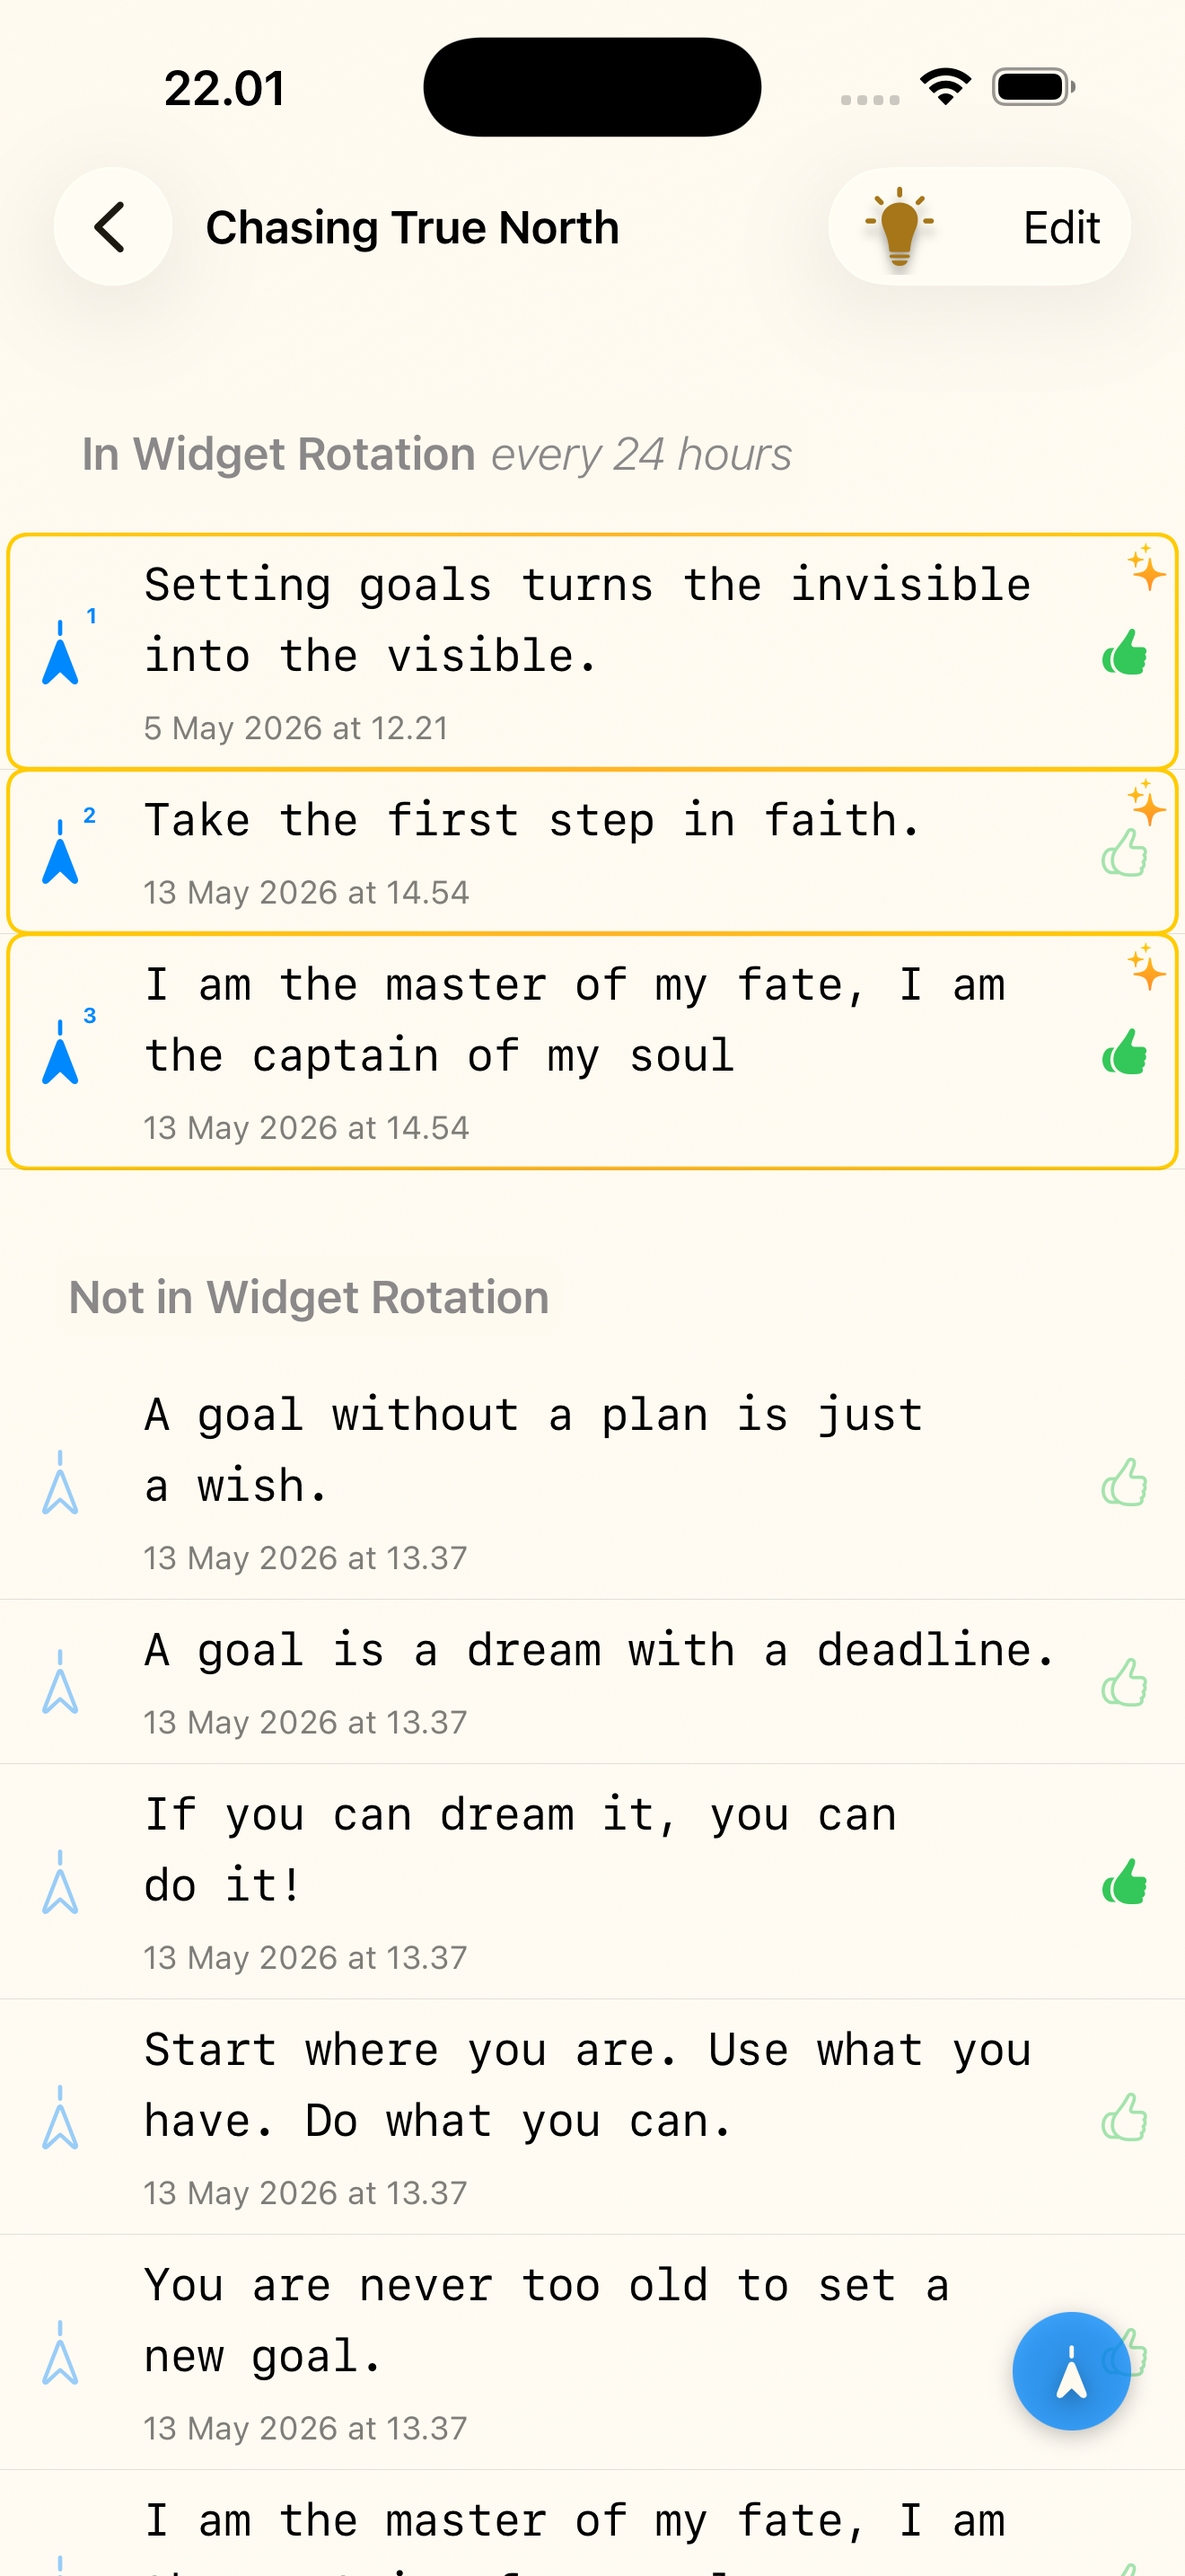
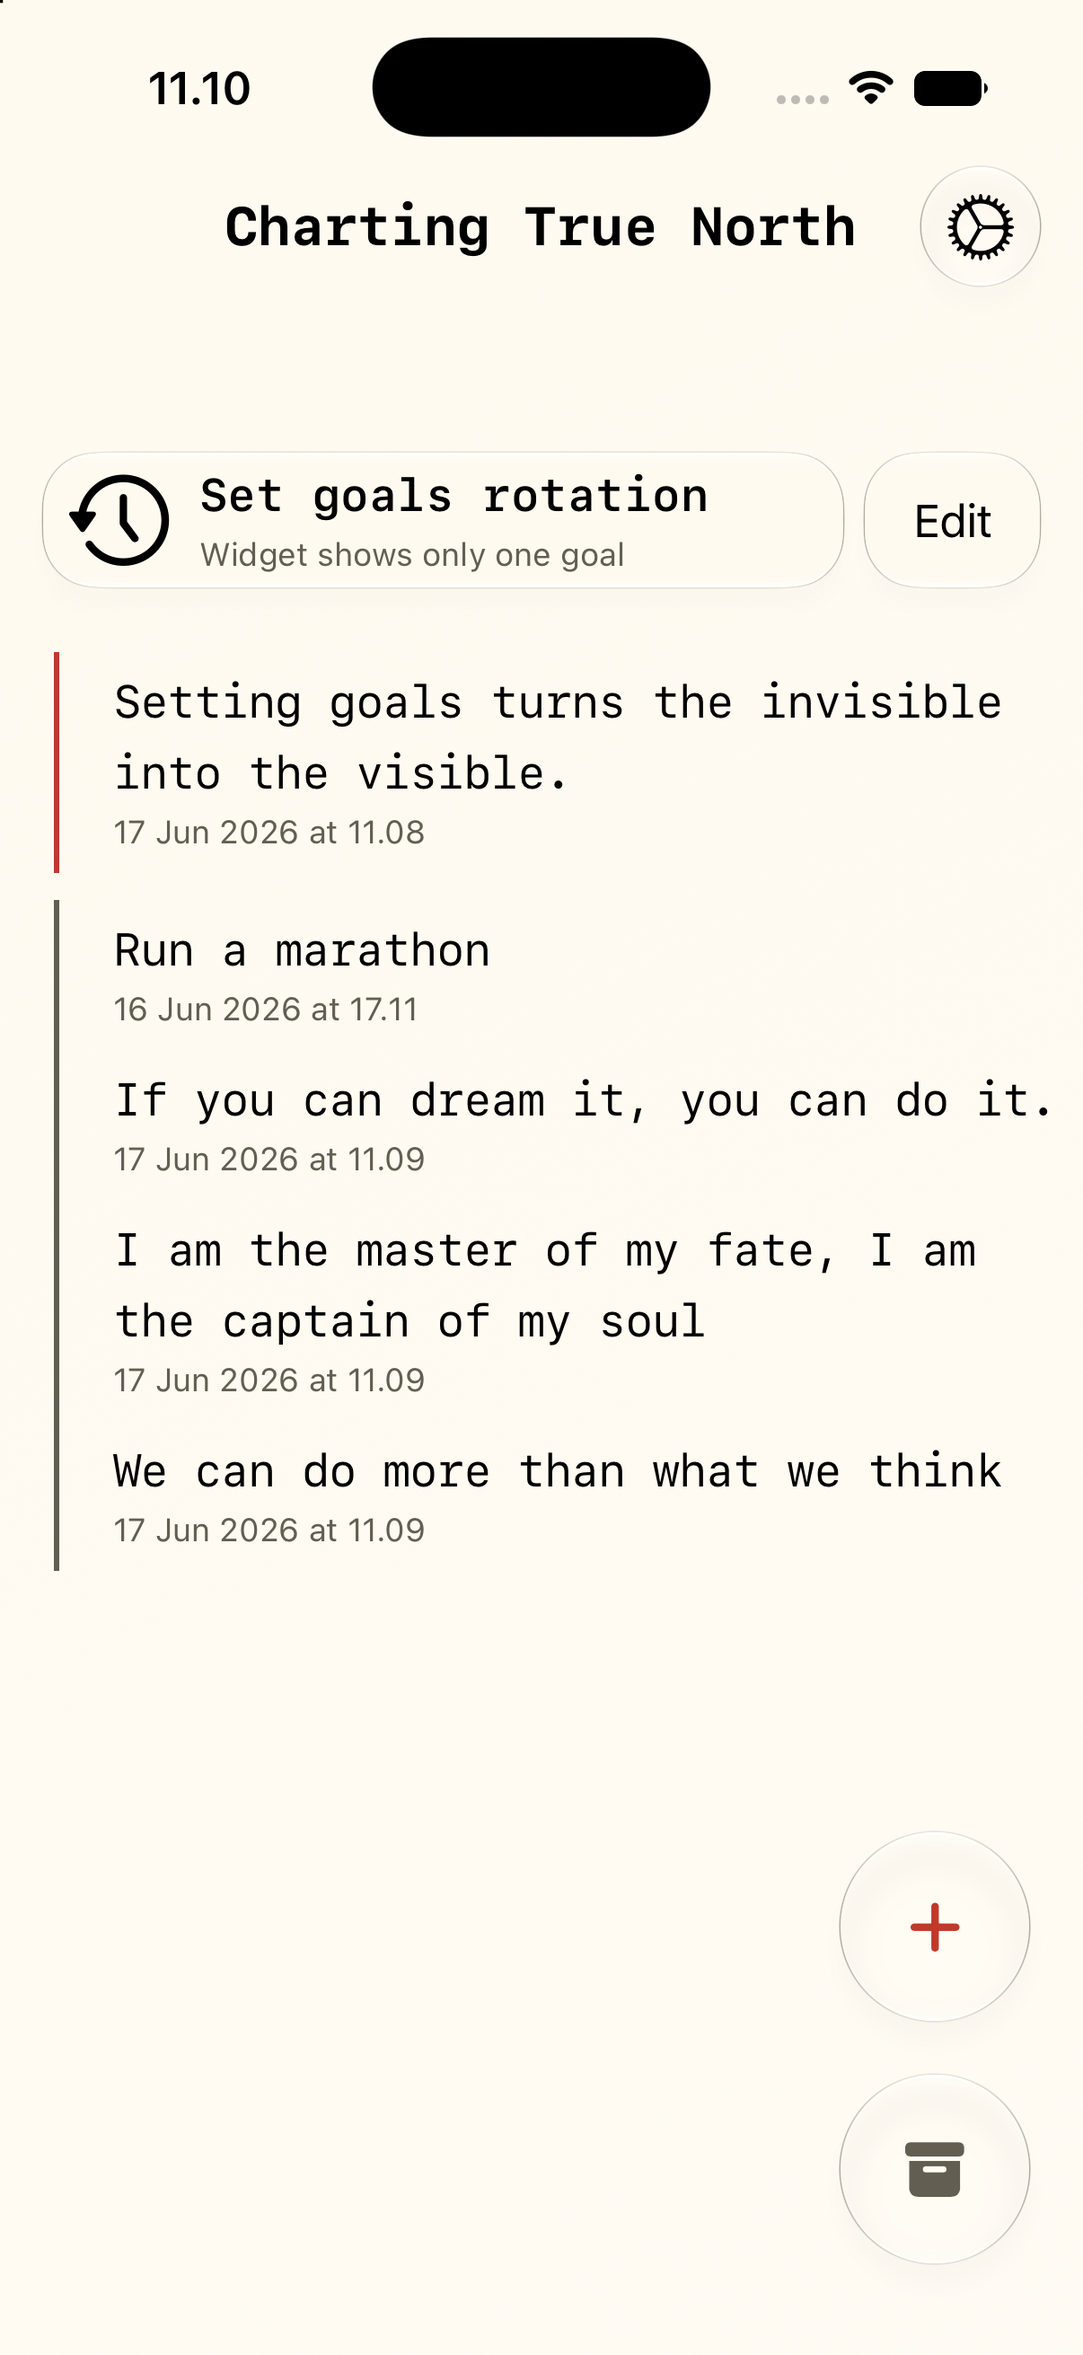
[UPDATE]_screenshots

diff --git a/projects/visionnote/visionnoteIndex.html b/projects/visionnote/visionnoteIndex.html
@@ -108,7 +108,7 @@
       <div class="vb-device">
         <div class="device-notch"></div>
         <div class="device-screen">
-          <img src="assets/img/screenshot_input.png" alt="Vision Note app — goal input screen">
+          <img src="assets/img/screenshot_goal.png" alt="Vision Note app — goal input screen">
         </div>
       </div>
     </div>
